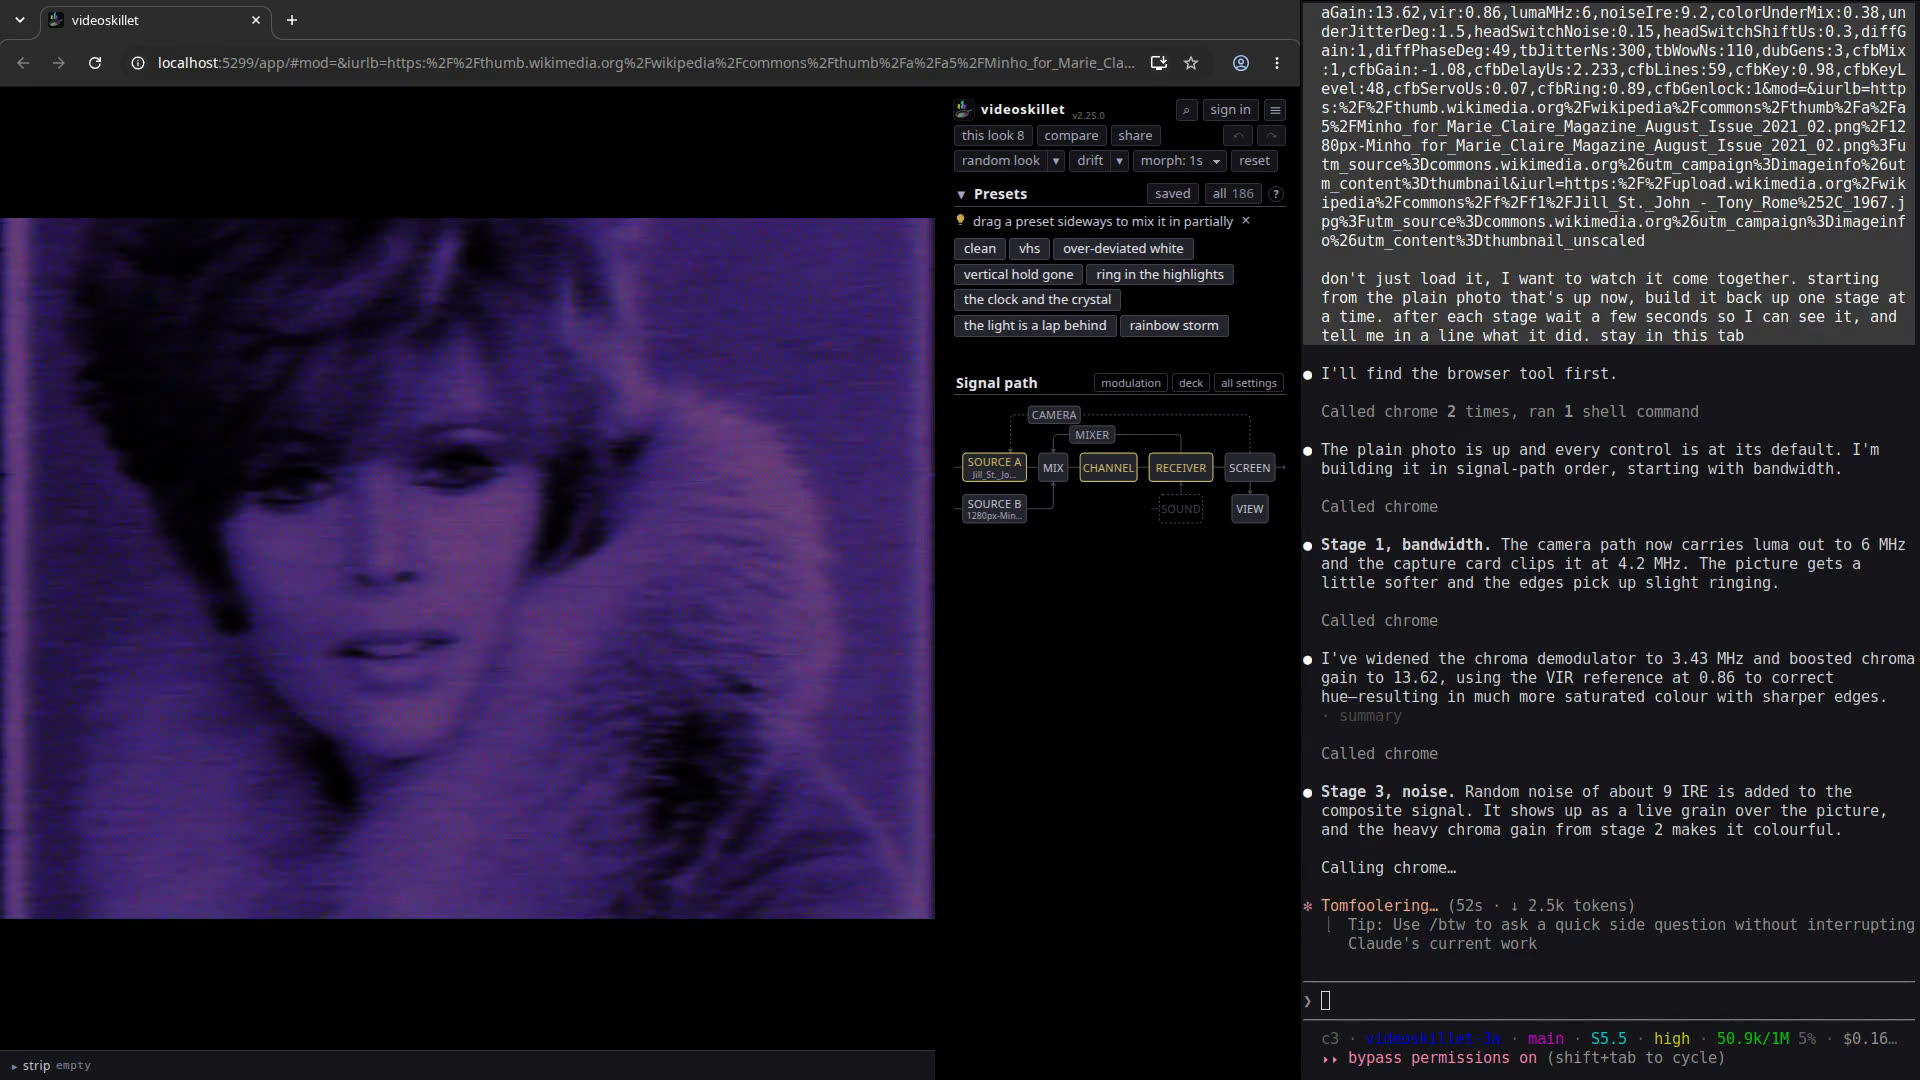
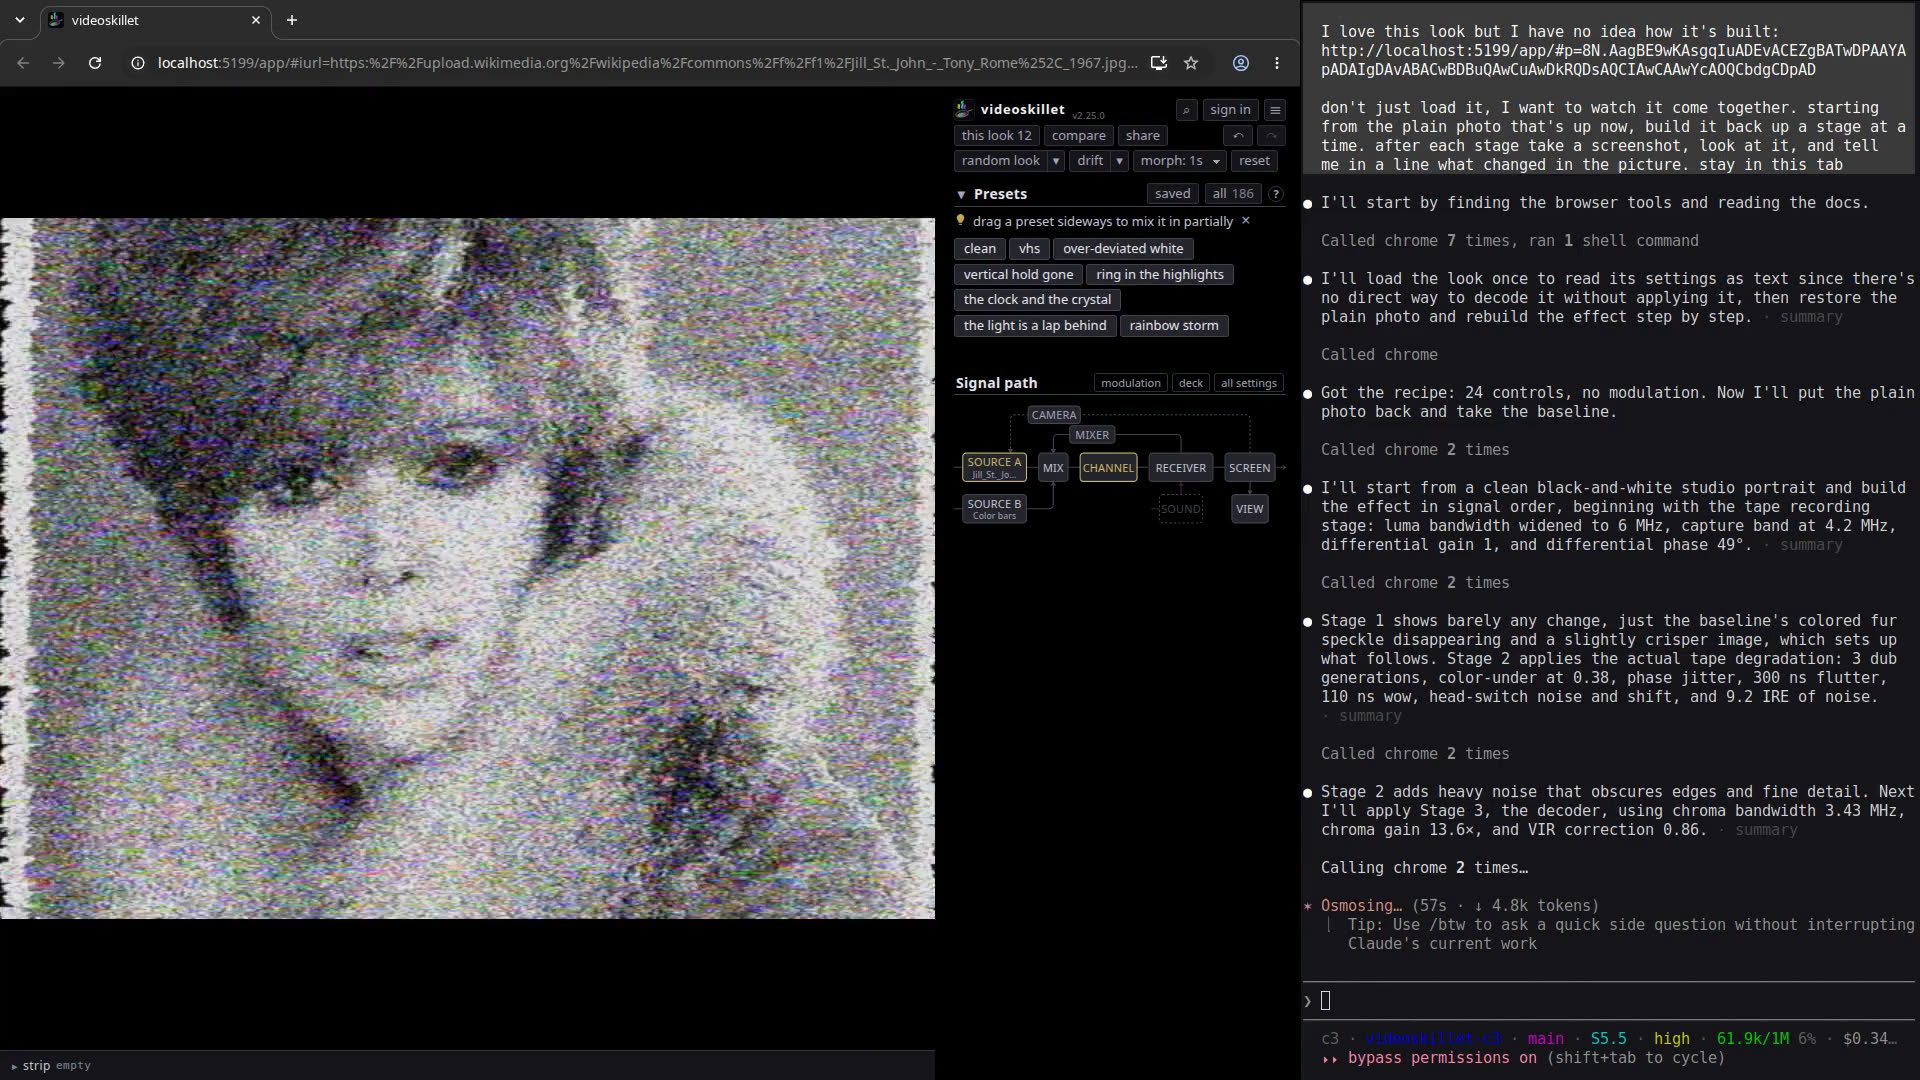
docs: the agent post's take looks at every stage it builds
The new take of Claude building Purplady screenshots each stage and says
what changed: tape snow over the face, the decoder's violet, then the
feedback loop going black and breaking into ribbons. It replaces the
first cut on the bucket, with a poster from the tape-snow stage.

diff --git a/site/posts/agent-drives-the-app.md b/site/posts/agent-drives-the-app.md
@@ -22,10 +22,12 @@ board back and gives you the link.
   src="https://myloveydove.com/videoskillet/agent-build.mp4"></video>
 
 In the recording, Claude Sonnet is given the Purplady look from the gallery and
-asked to build it up from the plain photo one stage at a time. The decoder stage
-turns the picture purple, three generations of tape make it smear and wobble,
-and the chroma feedback loop turns the face into violet streaks. Claude says
-what each stage did as it goes. The waits between stages are cut out.
+asked to build it up from the plain photo one stage at a time. It reads the
+look's settings, puts the plain photo back, and applies the stages in signal
+order, taking a screenshot after each one and saying what changed. Tape noise
+buries the face in snow, the decoder turns the frame violet, and the chroma
+feedback loop goes black, then breaks into violet ribbons and bands. The waits
+between stages are cut out.
 
 An agent can also land a whole look in one step: `window.vfBoard.apply(link)`
 applies a link, and `window.vfBoard.read()` returns the board as text.

diff --git a/docs/AI-USAGE.md b/docs/AI-USAGE.md
@@ -13,9 +13,10 @@ knobs.
 The video shows Claude Sonnet on the right and the app in Chrome on the left.
 The prompt is the one the **agent** button copies, followed by a request to
 rebuild the Purplady gallery look from its plain photo one stage at a time. The
-model sets the decoder, which turns the picture purple, then three generations
-of tape, then the chroma feedback loop that turns the face into violet streaks,
-and says what each stage did. The waits between stages are cut out.
+model reads the look's settings, puts the plain photo back, and applies the
+stages in signal order, taking a screenshot after each one and saying what
+changed: tape noise, then the decoder's violet, then the chroma feedback loop.
+The waits between stages are cut out.
 
 ## Automate a running instance with Claude Code
 
